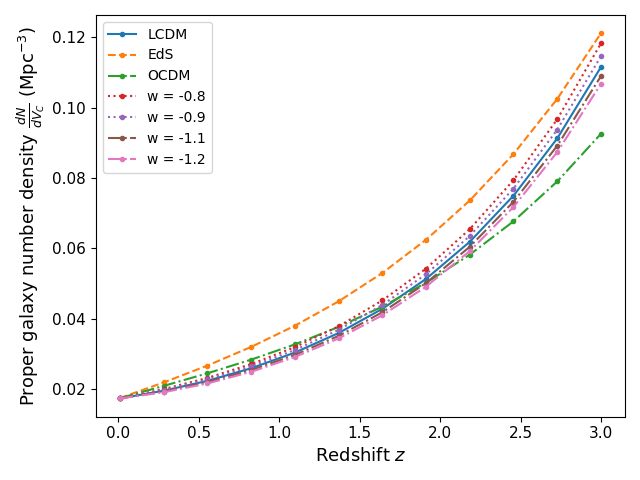
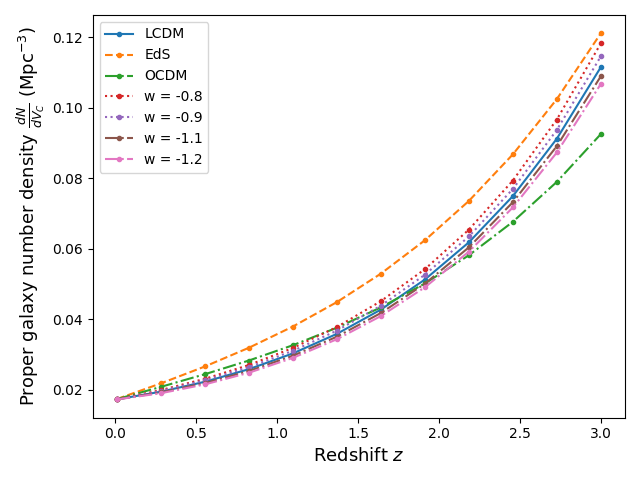
Code that uses the old galaxy formation from semester 1

diff --git a/Python/binned_comoving_volume.py b/Python/binned_comoving_volume.py
@@ -239,24 +239,24 @@ for zs in z_array:
 # plt.clf()
 
 # Plot comoving volume * 1/4*pi*d_A
-fig1_1, ax1_1 = plt.subplots()
-ax1_1.set_xlabel(r"Redshift $z$", fontsize=13)
-ax1_1.set_ylabel(r"Proper volume ${V_C}$ (Mpc$^3$)", fontsize=13)
-ax1_1.plot(z_bin, proper_volume(z_array, 0.3, 0, 0.7, 'LCDM', h=h_today), '-', marker='.', label='LCDM') # LCDM
-ax1_1.plot(z_bin, proper_volume(z_array, 1, 0, 0, 'LCDM', h=h_today), '--', marker='.', label='E-deS') # E-deS
-ax1_1.plot(z_bin, proper_volume(z_array, 0.3, 0.7, 0, 'LCDM', h=h_today), '-.', marker='.', label='OCDM') # OCDM
-ax1_1.plot(z_bin, proper_volume(z_array, 0.3, 0, 0.7, model = 'constant_w', w_0 = -0.8, h=h_today), marker='.', linestyle=(0, (1,1)), label='w = -0.8')
-ax1_1.plot(z_bin, proper_volume(z_array, 0.3, 0, 0.7, model = 'constant_w', w_0 = -0.9, h=h_today), marker='.', linestyle=(0, (1,2)), label='w = -0.9')
-ax1_1.plot(z_bin, proper_volume(z_array, 0.3, 0, 0.7, model = 'constant_w', w_0 = -1.1, h=h_today), marker='.', linestyle=(0, (1,3)), label='w = -1.1')
-ax1_1.plot(z_bin, proper_volume(z_array, 0.3, 0, 0.7, model = 'constant_w', w_0 = -1.2, h=h_today), marker='.', linestyle=(0, (1,4)), label='w = -1.2')
-plt.rc('xtick', labelsize=11)
-plt.rc('ytick', labelsize=11)
-ax1_1.legend()
-plt.tight_layout()
-fig1_1.savefig(save_path + 'proper_vol' + '_binsize' + str(bin_size) + '_zref' + str(z_ref) + '.png')
-# fig1_1.savefig(save_path + 'comoving_vol' + '_binsize' + str(bin_size) + '_zref' + str(z_ref) + '.pdf')
-plt.show()
-plt.clf()
+# fig1_1, ax1_1 = plt.subplots()
+# ax1_1.set_xlabel(r"Redshift $z$", fontsize=13)
+# ax1_1.set_ylabel(r"Proper volume ${V_C}$ (Mpc$^3$)", fontsize=13)
+# ax1_1.plot(z_bin, proper_volume(z_array, 0.3, 0, 0.7, 'LCDM', h=h_today), '-', marker='.', label='LCDM') # LCDM
+# ax1_1.plot(z_bin, proper_volume(z_array, 1, 0, 0, 'LCDM', h=h_today), '--', marker='.', label='E-deS') # E-deS
+# ax1_1.plot(z_bin, proper_volume(z_array, 0.3, 0.7, 0, 'LCDM', h=h_today), '-.', marker='.', label='OCDM') # OCDM
+# ax1_1.plot(z_bin, proper_volume(z_array, 0.3, 0, 0.7, model = 'constant_w', w_0 = -0.8, h=h_today), marker='.', linestyle=(0, (1,1)), label='w = -0.8')
+# ax1_1.plot(z_bin, proper_volume(z_array, 0.3, 0, 0.7, model = 'constant_w', w_0 = -0.9, h=h_today), marker='.', linestyle=(0, (1,2)), label='w = -0.9')
+# ax1_1.plot(z_bin, proper_volume(z_array, 0.3, 0, 0.7, model = 'constant_w', w_0 = -1.1, h=h_today), marker='.', linestyle=(0, (1,3)), label='w = -1.1')
+# ax1_1.plot(z_bin, proper_volume(z_array, 0.3, 0, 0.7, model = 'constant_w', w_0 = -1.2, h=h_today), marker='.', linestyle=(0, (1,4)), label='w = -1.2')
+# plt.rc('xtick', labelsize=11)
+# plt.rc('ytick', labelsize=11)
+# ax1_1.legend()
+# plt.tight_layout()
+# fig1_1.savefig(save_path + 'proper_vol' + '_binsize' + str(bin_size) + '_zref' + str(z_ref) + '.png')
+# # fig1_1.savefig(save_path + 'comoving_vol' + '_binsize' + str(bin_size) + '_zref' + str(z_ref) + '.pdf')
+# plt.show()
+# plt.clf()
 
 
 # ------------- Galaxy number --------------------
@@ -389,52 +389,155 @@ mass_min = 9.5
 
 # ----------------- Relative galaxy density -----------------
 # Uses single schechter function with varying alpha
-fig1, ax1 = plt.subplots()
-ax1.set_ylabel(r"Relative galaxy number density (1 / redshift Mpc$^2$)")
-ax1.set_xlabel(r"$z$")
-rel_num_LCDM, d_rel_num_LCDM = delta_galaxy_density_rel_z_comb_masslim(z_array, z_ref, mass_min, 11.12, Phi_directVec(z_bin, 11, 2.88e-3, 0.3, 0, 0.7, "LCDM", h=h_today), 0, alpha(z_bin, -0.093, -1.3), -1.47, 0.3, 0, 0.7, 'LCDM', h=h_today, sqd = sqd)
-rel_num_w8, d_rel_num_w8 = delta_galaxy_density_rel_z_comb_masslim(z_array, z_ref, mass_min, 11.12, Phi_directVec(z_bin, 11, 2.88e-3, 0.3, 0, 0.7, "LCDM", h=h_today), 0, alpha(z_bin, -0.093, -1.3), -1.47, 0.3, 0, 0.7,  'constant_w', -0.8, h=h_today, sqd = sqd)
-rel_num_w9, d_rel_num_w9 = delta_galaxy_density_rel_z_comb_masslim(z_array, z_ref, mass_min, 11.12, Phi_directVec(z_bin, 11, 2.88e-3, 0.3, 0, 0.7, "LCDM", h=h_today), 0, alpha(z_bin, -0.093, -1.3), -1.47, 0.3, 0, 0.7,  'constant_w', -0.9, h=h_today, sqd = sqd)
-rel_num_w11, d_rel_num_w11 = delta_galaxy_density_rel_z_comb_masslim(z_array, z_ref, mass_min, 11.12, Phi_directVec(z_bin, 11, 2.88e-3, 0.3, 0, 0.7, "LCDM", h=h_today), 0, alpha(z_bin, -0.093, -1.3), -1.47, 0.3, 0, 0.7, 'constant_w', -1.1, h=h_today, sqd = sqd)
-rel_num_w12, d_rel_num_w12 = delta_galaxy_density_rel_z_comb_masslim(z_array, z_ref, mass_min, 11.12, Phi_directVec(z_bin, 11, 2.88e-3, 0.3, 0, 0.7, "LCDM", h=h_today), 0, alpha(z_bin, -0.093, -1.3), -1.47, 0.3, 0, 0.7, 'constant_w', -1.2, h=h_today, sqd = sqd)
-rel_num_EdS, d_rel_num_EdS = delta_galaxy_density_rel_z_comb_masslim(z_array, z_ref, mass_min, 11.12, Phi_directVec(z_bin, 11, 2.88e-3, 1, 0, 0, "LCDM", h=h_today), 0, alpha(z_bin, -0.093, -1.3), -1.47, 1, 0, 0, 'LCDM', h=h_today, sqd = sqd)
-rel_num_OCDM, d_rel_num_OCDM = delta_galaxy_density_rel_z_comb_masslim(z_array, z_ref, mass_min, 11.12, Phi_directVec(z_bin, 11, 2.88e-3, 0.3, 0.7, 0, "LCDM", h=h_today), 0, alpha(z_bin, -0.093, -1.3), -1.47, 0.3, 0.7, 0, 'LCDM', h=h_today, sqd = sqd)
+# fig1, ax1 = plt.subplots()
+# ax1.set_ylabel(r"Relative galaxy number density (1 / redshift Mpc$^2$)")
+# ax1.set_xlabel(r"$z$")
+# rel_num_LCDM, d_rel_num_LCDM = delta_galaxy_density_rel_z_comb_masslim(z_array, z_ref, mass_min, 11.12, Phi_directVec(z_bin, 11, 2.88e-3, 0.3, 0, 0.7, "LCDM", h=h_today), 0, alpha(z_bin, -0.093, -1.3), -1.47, 0.3, 0, 0.7, 'LCDM', h=h_today, sqd = sqd)
+# rel_num_w8, d_rel_num_w8 = delta_galaxy_density_rel_z_comb_masslim(z_array, z_ref, mass_min, 11.12, Phi_directVec(z_bin, 11, 2.88e-3, 0.3, 0, 0.7, "LCDM", h=h_today), 0, alpha(z_bin, -0.093, -1.3), -1.47, 0.3, 0, 0.7,  'constant_w', -0.8, h=h_today, sqd = sqd)
+# rel_num_w9, d_rel_num_w9 = delta_galaxy_density_rel_z_comb_masslim(z_array, z_ref, mass_min, 11.12, Phi_directVec(z_bin, 11, 2.88e-3, 0.3, 0, 0.7, "LCDM", h=h_today), 0, alpha(z_bin, -0.093, -1.3), -1.47, 0.3, 0, 0.7,  'constant_w', -0.9, h=h_today, sqd = sqd)
+# rel_num_w11, d_rel_num_w11 = delta_galaxy_density_rel_z_comb_masslim(z_array, z_ref, mass_min, 11.12, Phi_directVec(z_bin, 11, 2.88e-3, 0.3, 0, 0.7, "LCDM", h=h_today), 0, alpha(z_bin, -0.093, -1.3), -1.47, 0.3, 0, 0.7, 'constant_w', -1.1, h=h_today, sqd = sqd)
+# rel_num_w12, d_rel_num_w12 = delta_galaxy_density_rel_z_comb_masslim(z_array, z_ref, mass_min, 11.12, Phi_directVec(z_bin, 11, 2.88e-3, 0.3, 0, 0.7, "LCDM", h=h_today), 0, alpha(z_bin, -0.093, -1.3), -1.47, 0.3, 0, 0.7, 'constant_w', -1.2, h=h_today, sqd = sqd)
+# rel_num_EdS, d_rel_num_EdS = delta_galaxy_density_rel_z_comb_masslim(z_array, z_ref, mass_min, 11.12, Phi_directVec(z_bin, 11, 2.88e-3, 1, 0, 0, "LCDM", h=h_today), 0, alpha(z_bin, -0.093, -1.3), -1.47, 1, 0, 0, 'LCDM', h=h_today, sqd = sqd)
+# rel_num_OCDM, d_rel_num_OCDM = delta_galaxy_density_rel_z_comb_masslim(z_array, z_ref, mass_min, 11.12, Phi_directVec(z_bin, 11, 2.88e-3, 0.3, 0.7, 0, "LCDM", h=h_today), 0, alpha(z_bin, -0.093, -1.3), -1.47, 0.3, 0.7, 0, 'LCDM', h=h_today, sqd = sqd)
 
 
-ax1.plot(z_bin, rel_num_LCDM, '-', marker='.', label='LCDM')
-ax1.plot(z_bin, rel_num_EdS, '--', marker='.', label='EdS')
-ax1.plot(z_bin, rel_num_OCDM, '-.', marker='.', label='OCDM')
-ax1.plot(z_bin, rel_num_w8, ':', marker='.',label='w = -0.8')
-ax1.plot(z_bin, rel_num_w9, ':', marker='.', label='w = -0.9')
-ax1.plot(z_bin, rel_num_w11, '-.', marker='.',label='w = -1.1')
-ax1.plot(z_bin, rel_num_w12, '-.', marker='.',label='w = -1.2')
+# ax1.plot(z_bin, rel_num_LCDM, '-', marker='.', label='LCDM')
+# ax1.plot(z_bin, rel_num_EdS, '--', marker='.', label='EdS')
+# ax1.plot(z_bin, rel_num_OCDM, '-.', marker='.', label='OCDM')
+# ax1.plot(z_bin, rel_num_w8, ':', marker='.',label='w = -0.8')
+# ax1.plot(z_bin, rel_num_w9, ':', marker='.', label='w = -0.9')
+# ax1.plot(z_bin, rel_num_w11, '-.', marker='.',label='w = -1.1')
+# ax1.plot(z_bin, rel_num_w12, '-.', marker='.',label='w = -1.2')
 
     
-# ax1.fill_between(z_bin, rel_num_LCDM - d_rel_num_LCDM, rel_num_LCDM + d_rel_num_LCDM, alpha=0.2)
-# ax1.fill_between(z_bin, rel_num_w8 - d_rel_num_w8, rel_num_w8 + d_rel_num_w8, alpha=0.2)
-# ax1.fill_between(z_bin, rel_num_w9 - d_rel_num_w9, rel_num_w9 + d_rel_num_w9, alpha=0.2)
-# ax1.fill_between(z_bin, rel_num_w11 - d_rel_num_w11, rel_num_w11 + d_rel_num_w11, alpha=0.2)
-# ax1.fill_between(z_bin, rel_num_w12 - d_rel_num_w12, rel_num_w12 + d_rel_num_w12, alpha=0.2)
+# # ax1.fill_between(z_bin, rel_num_LCDM - d_rel_num_LCDM, rel_num_LCDM + d_rel_num_LCDM, alpha=0.2)
+# # ax1.fill_between(z_bin, rel_num_w8 - d_rel_num_w8, rel_num_w8 + d_rel_num_w8, alpha=0.2)
+# # ax1.fill_between(z_bin, rel_num_w9 - d_rel_num_w9, rel_num_w9 + d_rel_num_w9, alpha=0.2)
+# # ax1.fill_between(z_bin, rel_num_w11 - d_rel_num_w11, rel_num_w11 + d_rel_num_w11, alpha=0.2)
+# # ax1.fill_between(z_bin, rel_num_w12 - d_rel_num_w12, rel_num_w12 + d_rel_num_w12, alpha=0.2)
 
-plt.rc('xtick', labelsize=11)
-plt.rc('ytick', labelsize=11)
-ax1.legend()
-plt.tight_layout()
-fig1.savefig(save_path  + 'reldif' + 'density' + '_binsize' + str(bin_size) + '_var' + '_minMass' + str(mass_min) + '_sqd' + str(sqd) + '_var' + '_zref' + str(z_ref) + '_wErr' + '.png')
-plt.show()
+# plt.rc('xtick', labelsize=11)
+# plt.rc('ytick', labelsize=11)
+# ax1.legend()
+# plt.tight_layout()
+# fig1.savefig(save_path  + 'reldif' + 'density' + '_binsize' + str(bin_size) + '_var' + '_minMass' + str(mass_min) + '_sqd' + str(sqd) + '_var' + '_zref' + str(z_ref) + '_wErr' + '.png')
+# plt.show()
 
 
 # ------------ Galaxy number density from purely integrating the Schechter function -----------
+# fig1_2, ax1_2 = plt.subplots()
+# ax1_2.set_xlabel(r"Redshift $z$", fontsize=13)
+# ax1_2.set_ylabel(r"Proper galaxy number density $\frac{dN}{dV_C}$ (Mpc$^{-3}$)", fontsize=13)
+# num_LCDM = galaxy_no_density_masslim_vec(z_array, mass_min, 11.12, Phi_directVec(z_array, 11, 2.88e-3, 0.3, 0, 0.7, "LCDM", h=h_today), 0, alpha(z_array, -0.093, -1.3), -1.47, 0.3, 0, 0.7, 'LCDM', h=h_today)
+# num_w8 = galaxy_no_density_masslim_vec(z_array, mass_min, 11.12, Phi_directVec(z_array, 11, 2.88e-3, 0.3, 0, 0.7, "LCDM", h=h_today), 0, alpha(z_array, -0.093, -1.3), -1.47, 0.3, 0, 0.7,  'constant_w', -0.8, h=h_today)
+# num_w9 = galaxy_no_density_masslim_vec(z_array, mass_min, 11.12, Phi_directVec(z_array, 11, 2.88e-3, 0.3, 0, 0.7, "LCDM", h=h_today), 0, alpha(z_array, -0.093, -1.3), -1.47, 0.3, 0, 0.7,  'constant_w', -0.9, h=h_today)
+# num_w11 = galaxy_no_density_masslim_vec(z_array, mass_min, 11.12, Phi_directVec(z_array, 11, 2.88e-3, 0.3, 0, 0.7, "LCDM", h=h_today), 0, alpha(z_array, -0.093, -1.3), -1.47, 0.3, 0, 0.7, 'constant_w', -1.1, h=h_today)
+# num_w12 = galaxy_no_density_masslim_vec(z_array, mass_min, 11.12, Phi_directVec(z_array, 11, 2.88e-3, 0.3, 0, 0.7, "LCDM", h=h_today), 0, alpha(z_array, -0.093, -1.3), -1.47, 0.3, 0, 0.7, 'constant_w', -1.2, h=h_today)
+# num_EdS = galaxy_no_density_masslim_vec(z_array, mass_min, 11.12, Phi_directVec(z_array, 11, 2.88e-3, 1, 0, 0, "LCDM", h=h_today), 0, alpha(z_array, -0.093, -1.3), -1.47, 1, 0, 0, 'LCDM', h=h_today)
+# num_OCDM = galaxy_no_density_masslim_vec(z_array, mass_min, 11.12, Phi_directVec(z_array, 11, 2.88e-3, 0.3, 0.7, 0, "LCDM", h=h_today), 0, alpha(z_array, -0.093, -1.3), -1.47, 0.3, 0.7, 0, 'LCDM', h=h_today)
+
+# ax1_2.plot(z_array, num_LCDM, '-', marker='.', label='LCDM')
+# ax1_2.plot(z_array, num_EdS, '--', marker='.', label='EdS')
+# ax1_2.plot(z_array, num_OCDM, '-.', marker='.', label='OCDM')
+# ax1_2.plot(z_array, num_w8, ':', marker='.',label='w = -0.8')
+# ax1_2.plot(z_array, num_w9, ':', marker='.', label='w = -0.9')
+# ax1_2.plot(z_array, num_w11, '-.', marker='.',label='w = -1.1')
+# ax1_2.plot(z_array, num_w12, '-.', marker='.',label='w = -1.2')
+
+# plt.rc('xtick', labelsize=11)
+# plt.rc('ytick', labelsize=11)
+# ax1_2.legend()
+# plt.tight_layout()
+# fig1_2.savefig(save_path + 'schechter_density' + '_binsize' + str(bin_size) + 'minMass' + str(mass_min) + '.png')
+# # fig1_1.savefig(save_path + 'comoving_vol' + '_binsize' + str(bin_size) + '_zref' + str(z_ref) + '.pdf')
+# plt.show()
+# plt.clf()
+
+
+# ------------------------- Galaxy number density using bins and fixed mass limit -------------- 
+# galaxy_number_bin_masslim
+
+# fig3, ax3 = plt.subplots()
+# ax3.set_xlabel(r"Redshift $z$", fontsize=13)
+# ax3.set_ylabel(r"Galaxy number density $\frac{dN}{dV}$ (z$^{-1}$ Mpc$^{-2}$)", fontsize=13)
+# num_LCDM = galaxy_number_bin_masslim(z_array, mass_min, 11.12, Phi_directVec(z_bin, 11, 2.88e-3, 0.3, 0, 0.7, "LCDM", h=h_today), 0, alpha(z_bin, -0.093, -1.3), -1.47, 0.3, 0, 0.7, 'LCDM', h=h_today)
+# num_w8 = galaxy_number_bin_masslim(z_array, mass_min, 11.12, Phi_directVec(z_bin, 11, 2.88e-3, 0.3, 0, 0.7, "LCDM", h=h_today), 0, alpha(z_bin, -0.093, -1.3), -1.47, 0.3, 0, 0.7,  'constant_w', -0.8, h=h_today)
+# num_w9 = galaxy_number_bin_masslim(z_array, mass_min, 11.12, Phi_directVec(z_bin, 11, 2.88e-3, 0.3, 0, 0.7, "LCDM", h=h_today), 0, alpha(z_bin, -0.093, -1.3), -1.47, 0.3, 0, 0.7,  'constant_w', -0.9, h=h_today)
+# num_w11 = galaxy_number_bin_masslim(z_array, mass_min, 11.12, Phi_directVec(z_bin, 11, 2.88e-3, 0.3, 0, 0.7, "LCDM", h=h_today), 0, alpha(z_bin, -0.093, -1.3), -1.47, 0.3, 0, 0.7, 'constant_w', -1.1, h=h_today)
+# num_w12 = galaxy_number_bin_masslim(z_array, mass_min, 11.12, Phi_directVec(z_bin, 11, 2.88e-3, 0.3, 0, 0.7, "LCDM", h=h_today), 0, alpha(z_bin, -0.093, -1.3), -1.47, 0.3, 0, 0.7, 'constant_w', -1.2, h=h_today)
+# num_EdS = galaxy_number_bin_masslim(z_array, mass_min, 11.12, Phi_directVec(z_bin, 11, 2.88e-3, 1, 0, 0, "LCDM", h=h_today), 0, alpha(z_bin, -0.093, -1.3), -1.47, 1, 0, 0, 'LCDM', h=h_today)
+# num_OCDM = galaxy_number_bin_masslim(z_array, mass_min, 11.12, Phi_directVec(z_bin, 11, 2.88e-3, 0.3, 0.7, 0, "LCDM", h=h_today), 0, alpha(z_bin, -0.093, -1.3), -1.47, 0.3, 0.7, 0, 'LCDM', h=h_today)
+
+# ax3.plot(z_bin, num_LCDM, '-', marker='.', label='LCDM')
+# ax3.plot(z_bin, num_EdS, '--', marker='.', label='EdS')
+# ax3.plot(z_bin, num_OCDM, '-.', marker='.', label='OCDM')
+# ax3.plot(z_bin, num_w8, ':', marker='.',label='w = -0.8')
+# ax3.plot(z_bin, num_w9, ':', marker='.', label='w = -0.9')
+# ax3.plot(z_bin, num_w11, '-.', marker='.',label='w = -1.1')
+# ax3.plot(z_bin, num_w12, '-.', marker='.',label='w = -1.2')
+
+# plt.rc('xtick', labelsize=11)
+# plt.rc('ytick', labelsize=11)
+# ax3.legend()
+# plt.tight_layout()
+# fig3.savefig(save_path + 'galaxy_no_density' + '_binsize' + str(bin_size) + 'minMass' + str(mass_min) + '.png')
+# # fig1_1.savefig(save_path + 'comoving_vol' + '_binsize' + str(bin_size) + '_zref' + str(z_ref) + '.pdf')
+# plt.show()
+# plt.clf()
+
+
+
+
+
+# ----------------- Relative galaxy density, No Evolutions -----------------
+# Uses single schechter function with varying alpha
+mass_min = 9.5
+# fig1, ax1 = plt.subplots()
+# ax1.set_ylabel(r"Relative galaxy number density (1 / redshift Mpc$^2$)")
+# ax1.set_xlabel(r"$z$")
+# rel_num_LCDM, d_rel_num_LCDM = delta_galaxy_density_rel_z_comb_masslim(z_array, z_ref, mass_min, 11.12, Phi_directVec(3, 11, 2.88e-3, 0.3, 0, 0.7, "LCDM", h=h_today), 0, alpha(3, -0.093, -1.3), -1.47, 0.3, 0, 0.7, 'LCDM', h=h_today, sqd = sqd)
+# rel_num_w8, d_rel_num_w8 = delta_galaxy_density_rel_z_comb_masslim(z_array, z_ref, mass_min, 11.12, Phi_directVec(3, 11, 2.88e-3, 0.3, 0, 0.7, "LCDM", h=h_today), 0, alpha(3, -0.093, -1.3), -1.47, 0.3, 0, 0.7,  'constant_w', -0.8, h=h_today, sqd = sqd)
+# rel_num_w9, d_rel_num_w9 = delta_galaxy_density_rel_z_comb_masslim(z_array, z_ref, mass_min, 11.12, Phi_directVec(3, 11, 2.88e-3, 0.3, 0, 0.7, "LCDM", h=h_today), 0, alpha(3, -0.093, -1.3), -1.47, 0.3, 0, 0.7,  'constant_w', -0.9, h=h_today, sqd = sqd)
+# rel_num_w11, d_rel_num_w11 = delta_galaxy_density_rel_z_comb_masslim(z_array, z_ref, mass_min, 11.12, Phi_directVec(3, 11, 2.88e-3, 0.3, 0, 0.7, "LCDM", h=h_today), 0, alpha(3, -0.093, -1.3), -1.47, 0.3, 0, 0.7, 'constant_w', -1.1, h=h_today, sqd = sqd)
+# rel_num_w12, d_rel_num_w12 = delta_galaxy_density_rel_z_comb_masslim(z_array, z_ref, mass_min, 11.12, Phi_directVec(3, 11, 2.88e-3, 0.3, 0, 0.7, "LCDM", h=h_today), 0, alpha(3, -0.093, -1.3), -1.47, 0.3, 0, 0.7, 'constant_w', -1.2, h=h_today, sqd = sqd)
+# rel_num_EdS, d_rel_num_EdS = delta_galaxy_density_rel_z_comb_masslim(z_array, z_ref, mass_min, 11.12, Phi_directVec(3, 11, 2.88e-3, 1, 0, 0, "LCDM", h=h_today), 0, alpha(3, -0.093, -1.3), -1.47, 1, 0, 0, 'LCDM', h=h_today, sqd = sqd)
+# rel_num_OCDM, d_rel_num_OCDM = delta_galaxy_density_rel_z_comb_masslim(z_array, z_ref, mass_min, 11.12, Phi_directVec(3, 11, 2.88e-3, 0.3, 0.7, 0, "LCDM", h=h_today), 0, alpha(3, -0.093, -1.3), -1.47, 0.3, 0.7, 0, 'LCDM', h=h_today, sqd = sqd)
+
+
+# ax1.plot(z_bin, rel_num_LCDM, '-', marker='.', label='LCDM')
+# ax1.plot(z_bin, rel_num_EdS, '--', marker='.', label='EdS')
+# ax1.plot(z_bin, rel_num_OCDM, '-.', marker='.', label='OCDM')
+# ax1.plot(z_bin, rel_num_w8, ':', marker='.',label='w = -0.8')
+# ax1.plot(z_bin, rel_num_w9, ':', marker='.', label='w = -0.9')
+# ax1.plot(z_bin, rel_num_w11, '-.', marker='.',label='w = -1.1')
+# ax1.plot(z_bin, rel_num_w12, '-.', marker='.',label='w = -1.2')
+
+    
+# # ax1.fill_between(z_bin, rel_num_LCDM - d_rel_num_LCDM, rel_num_LCDM + d_rel_num_LCDM, alpha=0.2)
+# # ax1.fill_between(z_bin, rel_num_w8 - d_rel_num_w8, rel_num_w8 + d_rel_num_w8, alpha=0.2)
+# # ax1.fill_between(z_bin, rel_num_w9 - d_rel_num_w9, rel_num_w9 + d_rel_num_w9, alpha=0.2)
+# # ax1.fill_between(z_bin, rel_num_w11 - d_rel_num_w11, rel_num_w11 + d_rel_num_w11, alpha=0.2)
+# # ax1.fill_between(z_bin, rel_num_w12 - d_rel_num_w12, rel_num_w12 + d_rel_num_w12, alpha=0.2)
+
+# plt.rc('xtick', labelsize=11)
+# plt.rc('ytick', labelsize=11)
+# ax1.legend()
+# plt.tight_layout()
+# fig1.savefig(save_path  + 'reldif' + 'density' + '_binsize' + str(bin_size) + '_const' + '_minMass' + str(mass_min) + '_sqd' + str(sqd) + '_var' + '_zref' + str(z_ref) + '_wErr' + '.png')
+# plt.show()
+
+
+# ------------ Galaxy number density from purely integrating the Schechter function, without any galaxy formation -----------
 fig1_2, ax1_2 = plt.subplots()
 ax1_2.set_xlabel(r"Redshift $z$", fontsize=13)
 ax1_2.set_ylabel(r"Proper galaxy number density $\frac{dN}{dV_C}$ (Mpc$^{-3}$)", fontsize=13)
-num_LCDM = galaxy_no_density_masslim_vec(z_array, mass_min, 11.12, Phi_directVec(z_array, 11, 2.88e-3, 0.3, 0, 0.7, "LCDM", h=h_today), 0, alpha(z_array, -0.093, -1.3), -1.47, 0.3, 0, 0.7, 'LCDM', h=h_today)
-num_w8 = galaxy_no_density_masslim_vec(z_array, mass_min, 11.12, Phi_directVec(z_array, 11, 2.88e-3, 0.3, 0, 0.7, "LCDM", h=h_today), 0, alpha(z_array, -0.093, -1.3), -1.47, 0.3, 0, 0.7,  'constant_w', -0.8, h=h_today)
-num_w9 = galaxy_no_density_masslim_vec(z_array, mass_min, 11.12, Phi_directVec(z_array, 11, 2.88e-3, 0.3, 0, 0.7, "LCDM", h=h_today), 0, alpha(z_array, -0.093, -1.3), -1.47, 0.3, 0, 0.7,  'constant_w', -0.9, h=h_today)
-num_w11 = galaxy_no_density_masslim_vec(z_array, mass_min, 11.12, Phi_directVec(z_array, 11, 2.88e-3, 0.3, 0, 0.7, "LCDM", h=h_today), 0, alpha(z_array, -0.093, -1.3), -1.47, 0.3, 0, 0.7, 'constant_w', -1.1, h=h_today)
-num_w12 = galaxy_no_density_masslim_vec(z_array, mass_min, 11.12, Phi_directVec(z_array, 11, 2.88e-3, 0.3, 0, 0.7, "LCDM", h=h_today), 0, alpha(z_array, -0.093, -1.3), -1.47, 0.3, 0, 0.7, 'constant_w', -1.2, h=h_today)
-num_EdS = galaxy_no_density_masslim_vec(z_array, mass_min, 11.12, Phi_directVec(z_array, 11, 2.88e-3, 1, 0, 0, "LCDM", h=h_today), 0, alpha(z_array, -0.093, -1.3), -1.47, 1, 0, 0, 'LCDM', h=h_today)
-num_OCDM = galaxy_no_density_masslim_vec(z_array, mass_min, 11.12, Phi_directVec(z_array, 11, 2.88e-3, 0.3, 0.7, 0, "LCDM", h=h_today), 0, alpha(z_array, -0.093, -1.3), -1.47, 0.3, 0.7, 0, 'LCDM', h=h_today)
+num_LCDM = galaxy_no_density_masslim_vec(z_array, mass_min, 11.12, Phi_directVec(3, 11, 2.88e-3, 0.3, 0, 0.7, "LCDM", h=h_today), 0, alpha(3, -0.093, -1.3), -1.47, 0.3, 0, 0.7, 'LCDM', h=h_today)
+num_w8 = galaxy_no_density_masslim_vec(z_array, mass_min, 11.12, Phi_directVec(3, 11, 2.88e-3, 0.3, 0, 0.7, "LCDM", h=h_today), 0, alpha(3, -0.093, -1.3), -1.47, 0.3, 0, 0.7,  'constant_w', -0.8, h=h_today)
+num_w9 = galaxy_no_density_masslim_vec(z_array, mass_min, 11.12, Phi_directVec(3, 11, 2.88e-3, 0.3, 0, 0.7, "LCDM", h=h_today), 0, alpha(3, -0.093, -1.3), -1.47, 0.3, 0, 0.7,  'constant_w', -0.9, h=h_today)
+num_w11 = galaxy_no_density_masslim_vec(z_array, mass_min, 11.12, Phi_directVec(3, 11, 2.88e-3, 0.3, 0, 0.7, "LCDM", h=h_today), 0, alpha(3, -0.093, -1.3), -1.47, 0.3, 0, 0.7, 'constant_w', -1.1, h=h_today)
+num_w12 = galaxy_no_density_masslim_vec(z_array, mass_min, 11.12, Phi_directVec(3, 11, 2.88e-3, 0.3, 0, 0.7, "LCDM", h=h_today), 0, alpha(3, -0.093, -1.3), -1.47, 0.3, 0, 0.7, 'constant_w', -1.2, h=h_today)
+num_EdS = galaxy_no_density_masslim_vec(z_array, mass_min, 11.12, Phi_directVec(3, 11, 2.88e-3, 1, 0, 0, "LCDM", h=h_today), 0, alpha(3, -0.093, -1.3), -1.47, 1, 0, 0, 'LCDM', h=h_today)
+num_OCDM = galaxy_no_density_masslim_vec(z_array, mass_min, 11.12, Phi_directVec(3, 11, 2.88e-3, 0.3, 0.7, 0, "LCDM", h=h_today), 0, alpha(3, -0.093, -1.3), -1.47, 0.3, 0.7, 0, 'LCDM', h=h_today)
 
 ax1_2.plot(z_array, num_LCDM, '-', marker='.', label='LCDM')
 ax1_2.plot(z_array, num_EdS, '--', marker='.', label='EdS')
@@ -448,39 +551,7 @@ plt.rc('xtick', labelsize=11)
 plt.rc('ytick', labelsize=11)
 ax1_2.legend()
 plt.tight_layout()
-fig1_2.savefig(save_path + 'schechter_density' + '_binsize' + str(bin_size) + 'minMass' + str(mass_min) + '.png')
-# fig1_1.savefig(save_path + 'comoving_vol' + '_binsize' + str(bin_size) + '_zref' + str(z_ref) + '.pdf')
-plt.show()
-plt.clf()
-
-
-# ------------------------- Galaxy number density using bins and fixed mass limit -------------- 
-galaxy_number_bin_masslim
-
-fig3, ax3 = plt.subplots()
-ax3.set_xlabel(r"Redshift $z$", fontsize=13)
-ax3.set_ylabel(r"Galaxy number density $\frac{dN}{dV}$ (z$^{-1}$ Mpc$^{-2}$)", fontsize=13)
-num_LCDM = galaxy_number_bin_masslim(z_array, mass_min, 11.12, Phi_directVec(z_bin, 11, 2.88e-3, 0.3, 0, 0.7, "LCDM", h=h_today), 0, alpha(z_bin, -0.093, -1.3), -1.47, 0.3, 0, 0.7, 'LCDM', h=h_today)
-num_w8 = galaxy_number_bin_masslim(z_array, mass_min, 11.12, Phi_directVec(z_bin, 11, 2.88e-3, 0.3, 0, 0.7, "LCDM", h=h_today), 0, alpha(z_bin, -0.093, -1.3), -1.47, 0.3, 0, 0.7,  'constant_w', -0.8, h=h_today)
-num_w9 = galaxy_number_bin_masslim(z_array, mass_min, 11.12, Phi_directVec(z_bin, 11, 2.88e-3, 0.3, 0, 0.7, "LCDM", h=h_today), 0, alpha(z_bin, -0.093, -1.3), -1.47, 0.3, 0, 0.7,  'constant_w', -0.9, h=h_today)
-num_w11 = galaxy_number_bin_masslim(z_array, mass_min, 11.12, Phi_directVec(z_bin, 11, 2.88e-3, 0.3, 0, 0.7, "LCDM", h=h_today), 0, alpha(z_bin, -0.093, -1.3), -1.47, 0.3, 0, 0.7, 'constant_w', -1.1, h=h_today)
-num_w12 = galaxy_number_bin_masslim(z_array, mass_min, 11.12, Phi_directVec(z_bin, 11, 2.88e-3, 0.3, 0, 0.7, "LCDM", h=h_today), 0, alpha(z_bin, -0.093, -1.3), -1.47, 0.3, 0, 0.7, 'constant_w', -1.2, h=h_today)
-num_EdS = galaxy_number_bin_masslim(z_array, mass_min, 11.12, Phi_directVec(z_bin, 11, 2.88e-3, 1, 0, 0, "LCDM", h=h_today), 0, alpha(z_bin, -0.093, -1.3), -1.47, 1, 0, 0, 'LCDM', h=h_today)
-num_OCDM = galaxy_number_bin_masslim(z_array, mass_min, 11.12, Phi_directVec(z_bin, 11, 2.88e-3, 0.3, 0.7, 0, "LCDM", h=h_today), 0, alpha(z_bin, -0.093, -1.3), -1.47, 0.3, 0.7, 0, 'LCDM', h=h_today)
-
-ax3.plot(z_bin, num_LCDM, '-', marker='.', label='LCDM')
-ax3.plot(z_bin, num_EdS, '--', marker='.', label='EdS')
-ax3.plot(z_bin, num_OCDM, '-.', marker='.', label='OCDM')
-ax3.plot(z_bin, num_w8, ':', marker='.',label='w = -0.8')
-ax3.plot(z_bin, num_w9, ':', marker='.', label='w = -0.9')
-ax3.plot(z_bin, num_w11, '-.', marker='.',label='w = -1.1')
-ax3.plot(z_bin, num_w12, '-.', marker='.',label='w = -1.2')
-
-plt.rc('xtick', labelsize=11)
-plt.rc('ytick', labelsize=11)
-ax3.legend()
-plt.tight_layout()
-fig3.savefig(save_path + 'galaxy_no_density' + '_binsize' + str(bin_size) + 'minMass' + str(mass_min) + '.png')
+fig1_2.savefig(save_path + 'schechter_density' + '_const' + '_binsize' + str(bin_size) + 'minMass' + str(mass_min) + '.png')
 # fig1_1.savefig(save_path + 'comoving_vol' + '_binsize' + str(bin_size) + '_zref' + str(z_ref) + '.pdf')
 plt.show()
 plt.clf()
